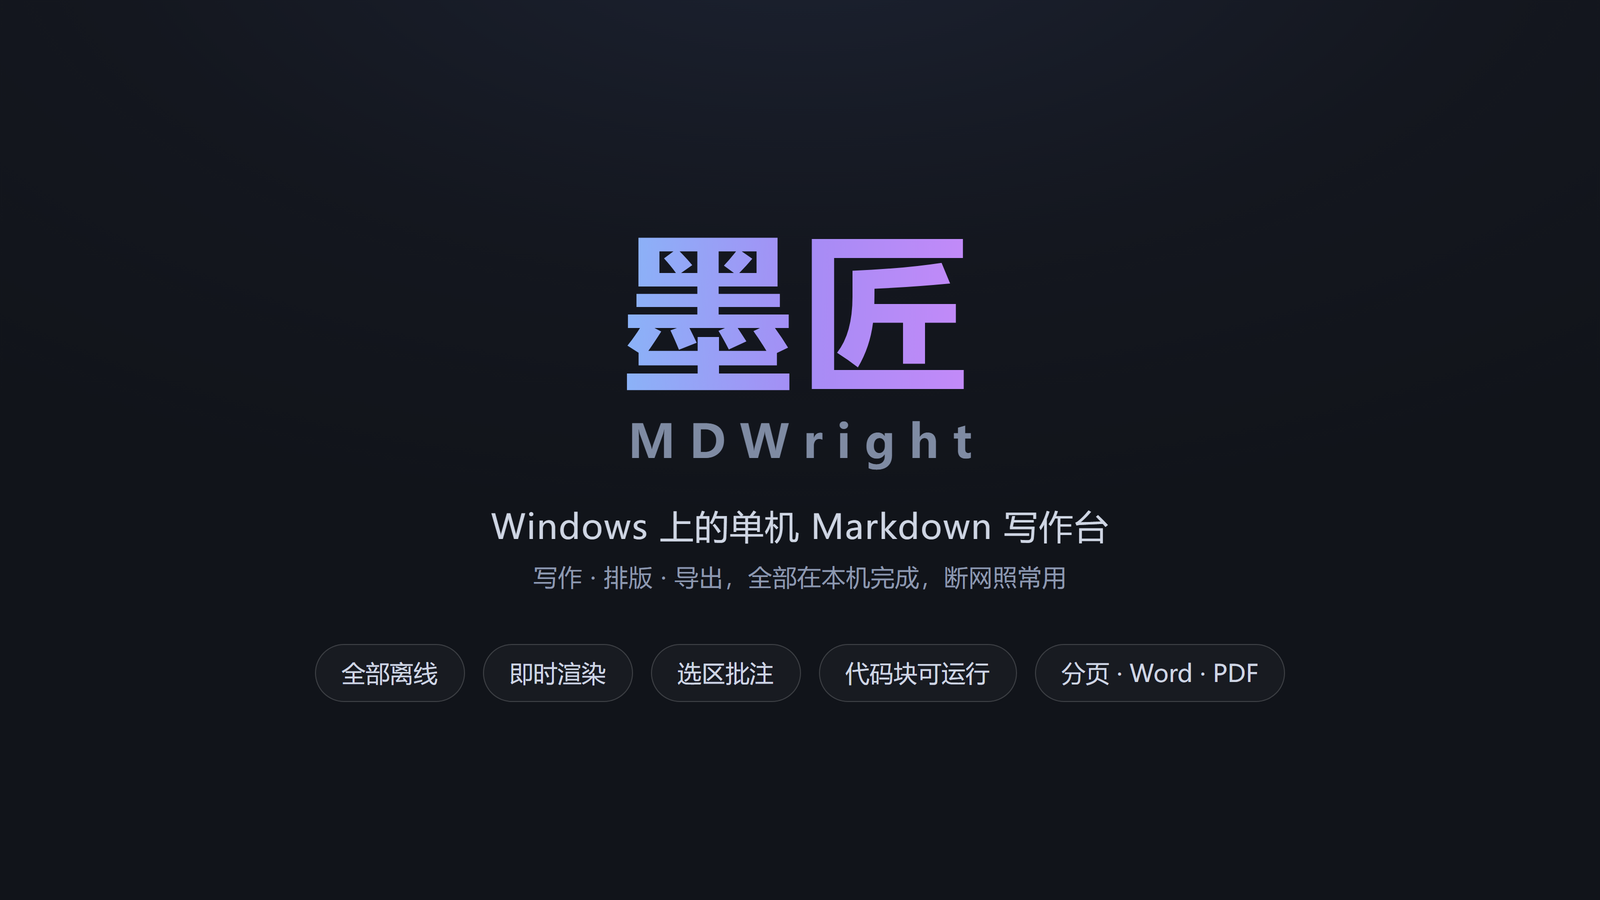
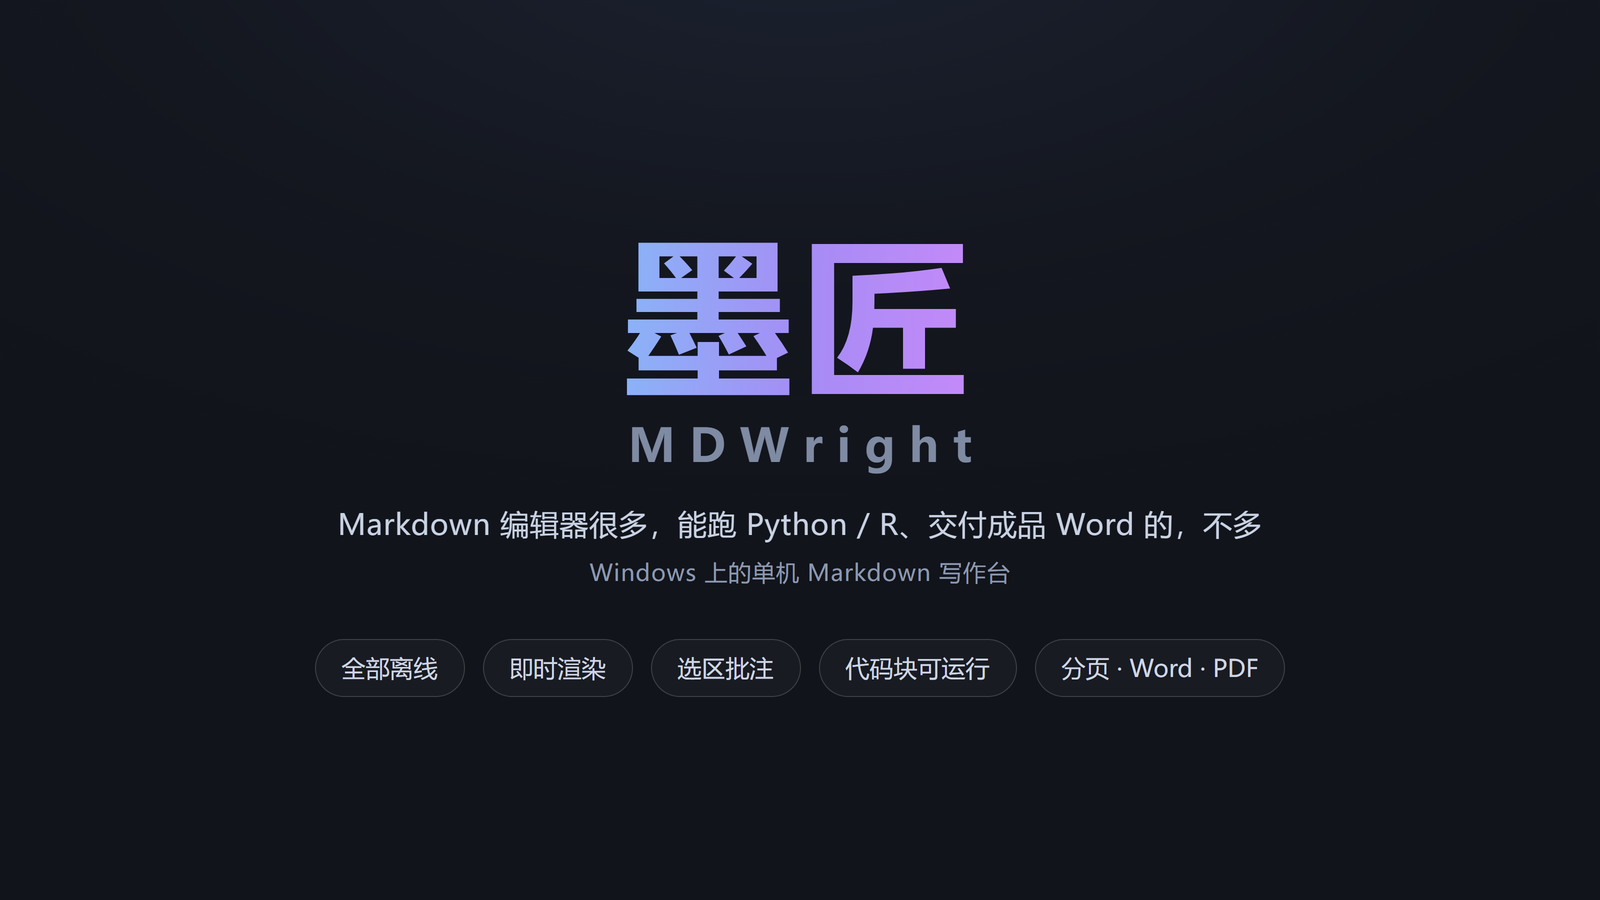
docs: 标题卡加首帧文案（Markdown 编辑器很多…不多），层次按「品牌 > 主张 > 定位」重排

diff --git a/docs/宣传图/_make_cards.py b/docs/宣传图/_make_cards.py
@@ -67,7 +67,8 @@ body{font-family:"Microsoft YaHei UI","Microsoft YaHei","PingFang SC",sans-serif
             line-height:1.1;padding-top:18px}
 .hero .en{margin-top:10px;font-size:46px;font-weight:600;letter-spacing:14px;
           color:#7f8ba3;text-indent:14px}
-.hero .sub{margin-top:34px;font-size:34px;color:#cfd6e4;letter-spacing:1px}
+.hero .hook{margin-top:32px;font-size:29px;color:#c9d3e4;letter-spacing:.6px}
+.hero .sub{margin-top:16px;font-size:23px;color:#8d99b0;letter-spacing:.8px}
 .hero .sub2{margin-top:14px;font-size:24px;color:#8d99b0;letter-spacing:.5px}
 .hero .chips{display:flex;gap:18px;margin-top:52px}
 .hero .chips span{font-size:24px;color:#cfd6e4;padding:13px 26px;border-radius:999px;
@@ -108,8 +109,8 @@ def hero():
     return """<section class="card hero">
   <div class="mark">墨匠</div>
   <div class="en">MDWright</div>
+  <div class="hook">Markdown 编辑器很多，能跑 Python / R、交付成品 Word 的，不多</div>
   <div class="sub">Windows 上的单机 Markdown 写作台</div>
-  <div class="sub2">写作 · 排版 · 导出，全部在本机完成，断网照常用</div>
   <div class="chips"><span>全部离线</span><span>即时渲染</span><span>选区批注</span>
   <span>代码块可运行</span><span>分页 · Word · PDF</span></div>
 </section>"""
